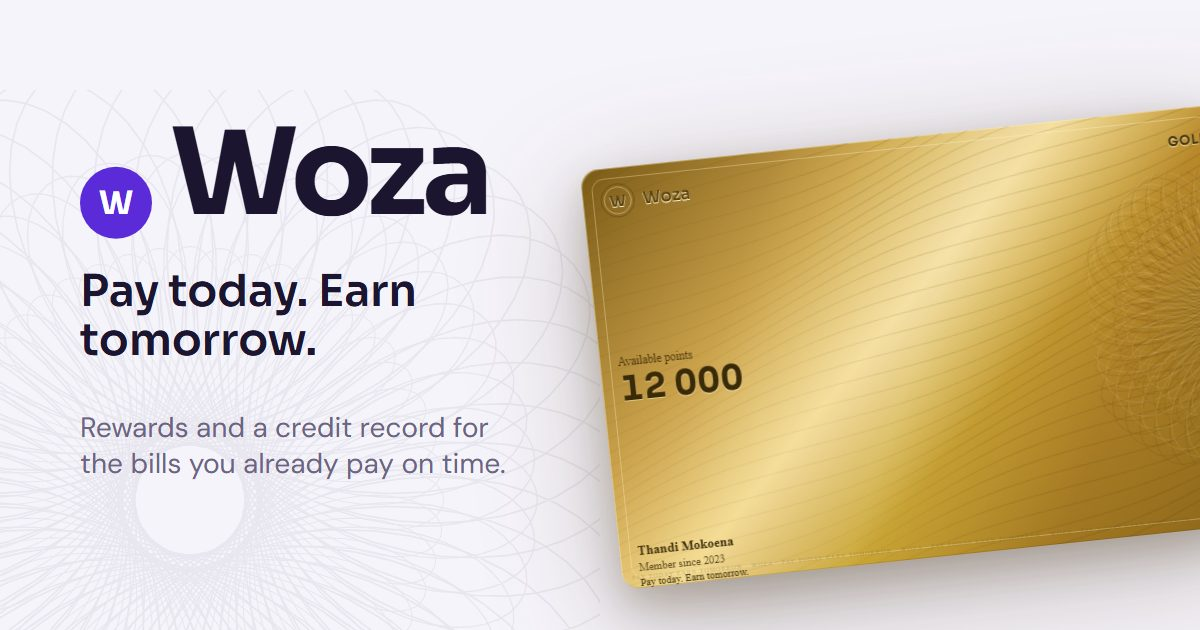
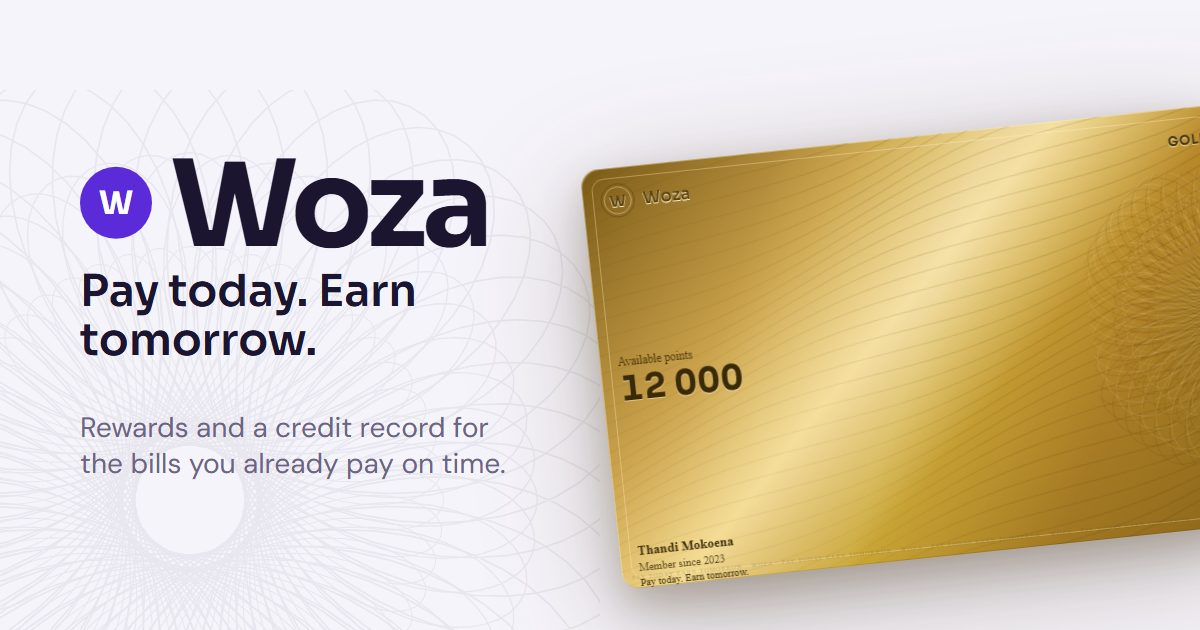
Centre OG wordmark on the monogram

Changed region(s): [[0.1233, 0.181, 0.4317, 0.3921]]

diff --git a/tools/make_og.py b/tools/make_og.py
@@ -8,13 +8,88 @@ as a static file. Render must not install Playwright or generate the image.
 from __future__ import annotations
 
 from pathlib import Path
+from urllib.request import Request, urlopen
 
+from PIL import ImageFont
 from playwright.sync_api import sync_playwright
 
 ROOT = Path(__file__).resolve().parent.parent
 OG_HTML = ROOT / "static" / "og.html"
 OUT_PATH = ROOT / "static" / "og.jpg"
 MAX_BYTES = 300 * 1024
+SORA_PATH = ROOT / "tools" / ".sora-bold.ttf"
+SORA_URL = "https://github.com/google/fonts/raw/main/ofl/sora/Sora%5Bwght%5D.ttf"
+WORDMARK = "Woza"
+
+
+def ensure_sora_bold() -> Path:
+    if SORA_PATH.is_file() and SORA_PATH.stat().st_size > 10_000:
+        return SORA_PATH
+    req = Request(SORA_URL, headers={"User-Agent": "woza-og"})
+    with urlopen(req, timeout=60) as resp:
+        data = resp.read()
+    if len(data) < 10_000:
+        raise SystemExit(f"Sora download too small ({len(data)} bytes)")
+    SORA_PATH.write_bytes(data)
+    return SORA_PATH
+
+
+def sora_700(size_px: float) -> ImageFont.FreeTypeFont:
+    font = ImageFont.truetype(str(ensure_sora_bold()), size=round(size_px))
+    font.set_variation_by_axes([700])
+    return font
+
+
+def cap_center_from_baseline(font: ImageFont.FreeTypeFont, text: str) -> float:
+    """Midpoint of ink top and the baseline, ignoring descender space."""
+    _left, top, _right, _bottom = font.getbbox(text, anchor="ls")
+    return (top + 0) / 2
+
+
+def cap_center_from_css_top(
+    font: ImageFont.FreeTypeFont, text: str, line_height_px: float
+) -> float:
+    ascent, descent = font.getmetrics()
+    half_leading = (line_height_px - (ascent + descent)) / 2
+    baseline_from_top = half_leading + ascent
+    return baseline_from_top + cap_center_from_baseline(font, text)
+
+
+def align_wordmark_to_circle(page) -> None:
+    info = page.evaluate(
+        """() => {
+          const word = document.querySelector(".wordmark");
+          const mark = document.querySelector(".mark");
+          if (!word || !mark) return null;
+          const wcs = getComputedStyle(word);
+          const wr = word.getBoundingClientRect();
+          const mr = mark.getBoundingClientRect();
+          return {
+            fontSize: parseFloat(wcs.fontSize),
+            lineHeight: parseFloat(wcs.lineHeight),
+            wordY: wr.y,
+            markY: mr.y,
+            markH: mr.height,
+          };
+        }"""
+    )
+    if not info:
+        raise SystemExit("OG lockup (.mark / .wordmark) not found")
+
+    font = sora_700(info["fontSize"])
+    current_cap_cy = info["wordY"] + cap_center_from_css_top(
+        font, WORDMARK, info["lineHeight"]
+    )
+    circle_cy = info["markY"] + info["markH"] / 2
+    delta = circle_cy - current_cap_cy
+    print(
+        f"lockup align: circle_cy={circle_cy:.1f} cap_cy={current_cap_cy:.1f} "
+        f"translateY={delta:.1f}px"
+    )
+    page.locator(".wordmark").evaluate(
+        "(el, d) => { el.style.transform = `translateY(${d}px)`; }",
+        delta,
+    )
 
 
 def main() -> int:
@@ -31,6 +106,7 @@ def main() -> int:
         page.wait_for_selector(".membership-card.tier-gold", timeout=15_000)
         page.evaluate("() => document.fonts.ready")
         page.wait_for_timeout(400)
+        align_wordmark_to_circle(page)
         page.screenshot(path=str(OUT_PATH), type="jpeg", quality=82, full_page=False)
         browser.close()
 
